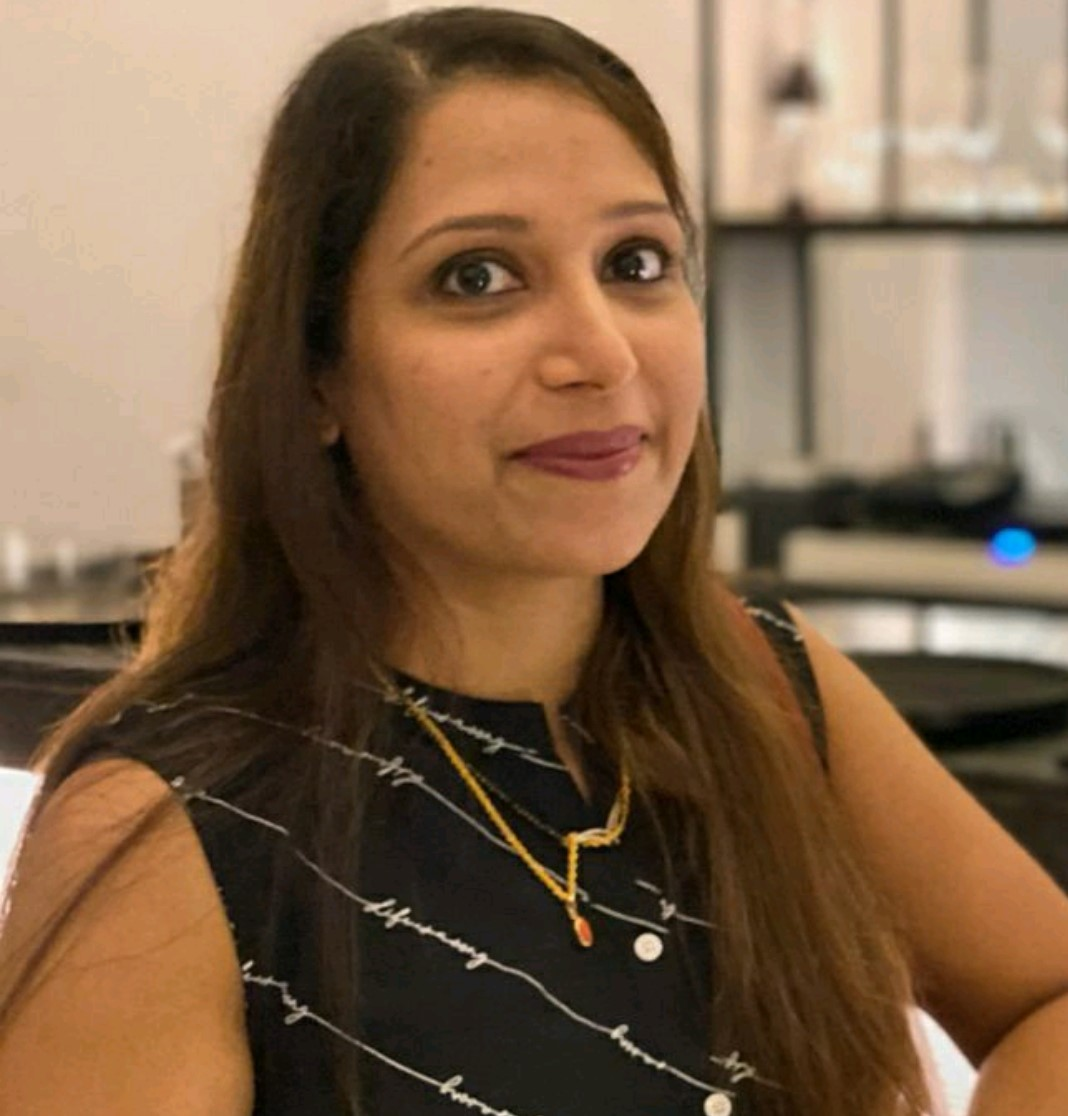
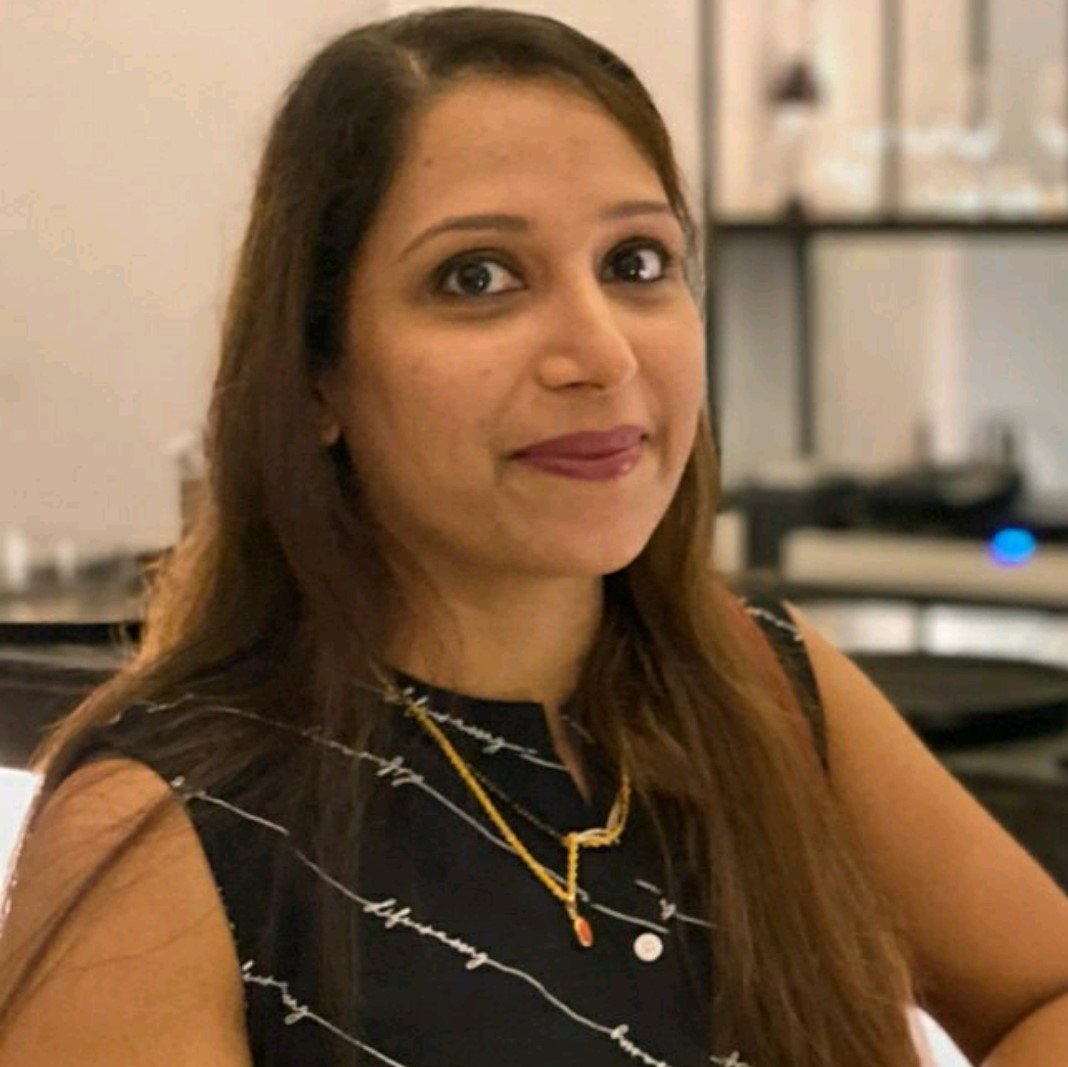
Compressed photos + Optimizations

diff --git a/swd/templates/home1.html b/swd/templates/home1.html
@@ -153,12 +153,8 @@
       .staff-container {
         width: 100%;
         display: grid;
-        grid-template-columns: repeat(auto-fit, minmax(250px, 1fr));
+        grid-template-columns: repeat(auto-fit, minmax(200px, 1fr));
         gap: 1rem;
-      }
-
-      .meet-staff {
-        /* padding: 5%; */
       }
 
       .staff {
@@ -180,7 +176,7 @@
         min-width: 100%;
         max-width: 100%;
         max-height: 100%;
-        aspect-ratio: 1 / 1;
+        /* aspect-ratio: 1 / 1; */
         /* object-fit: contain; */
       }
 
